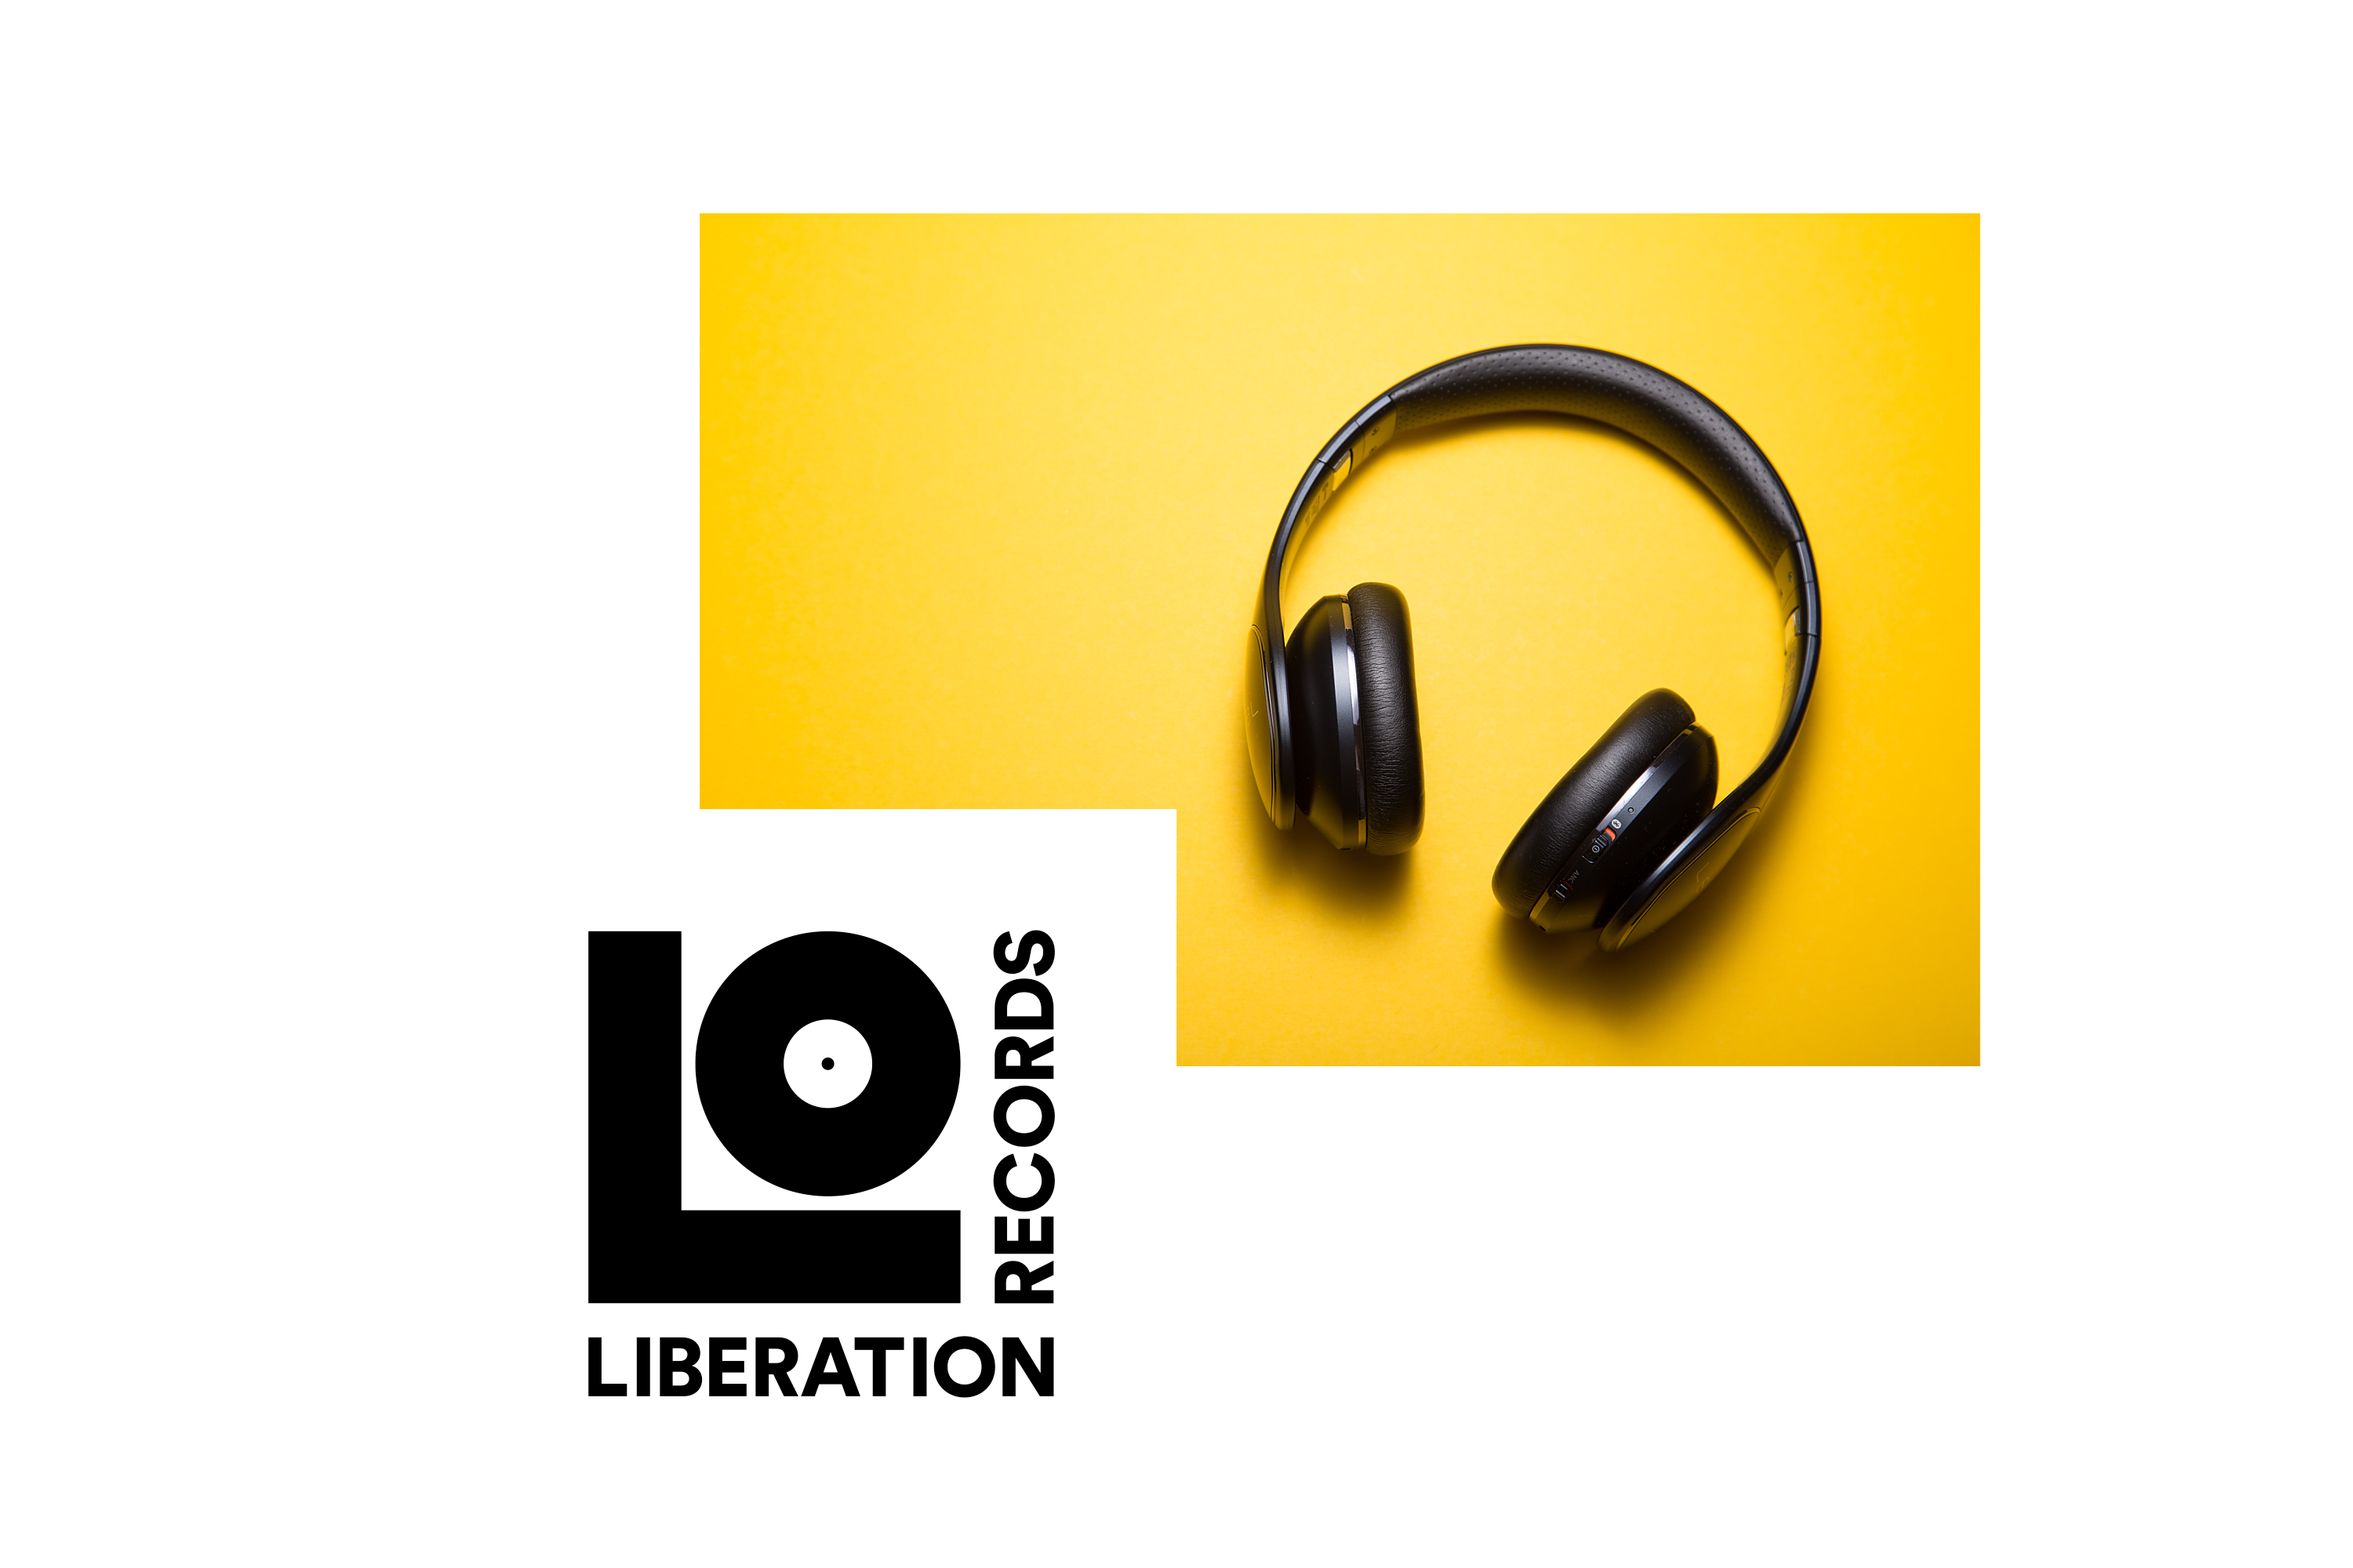
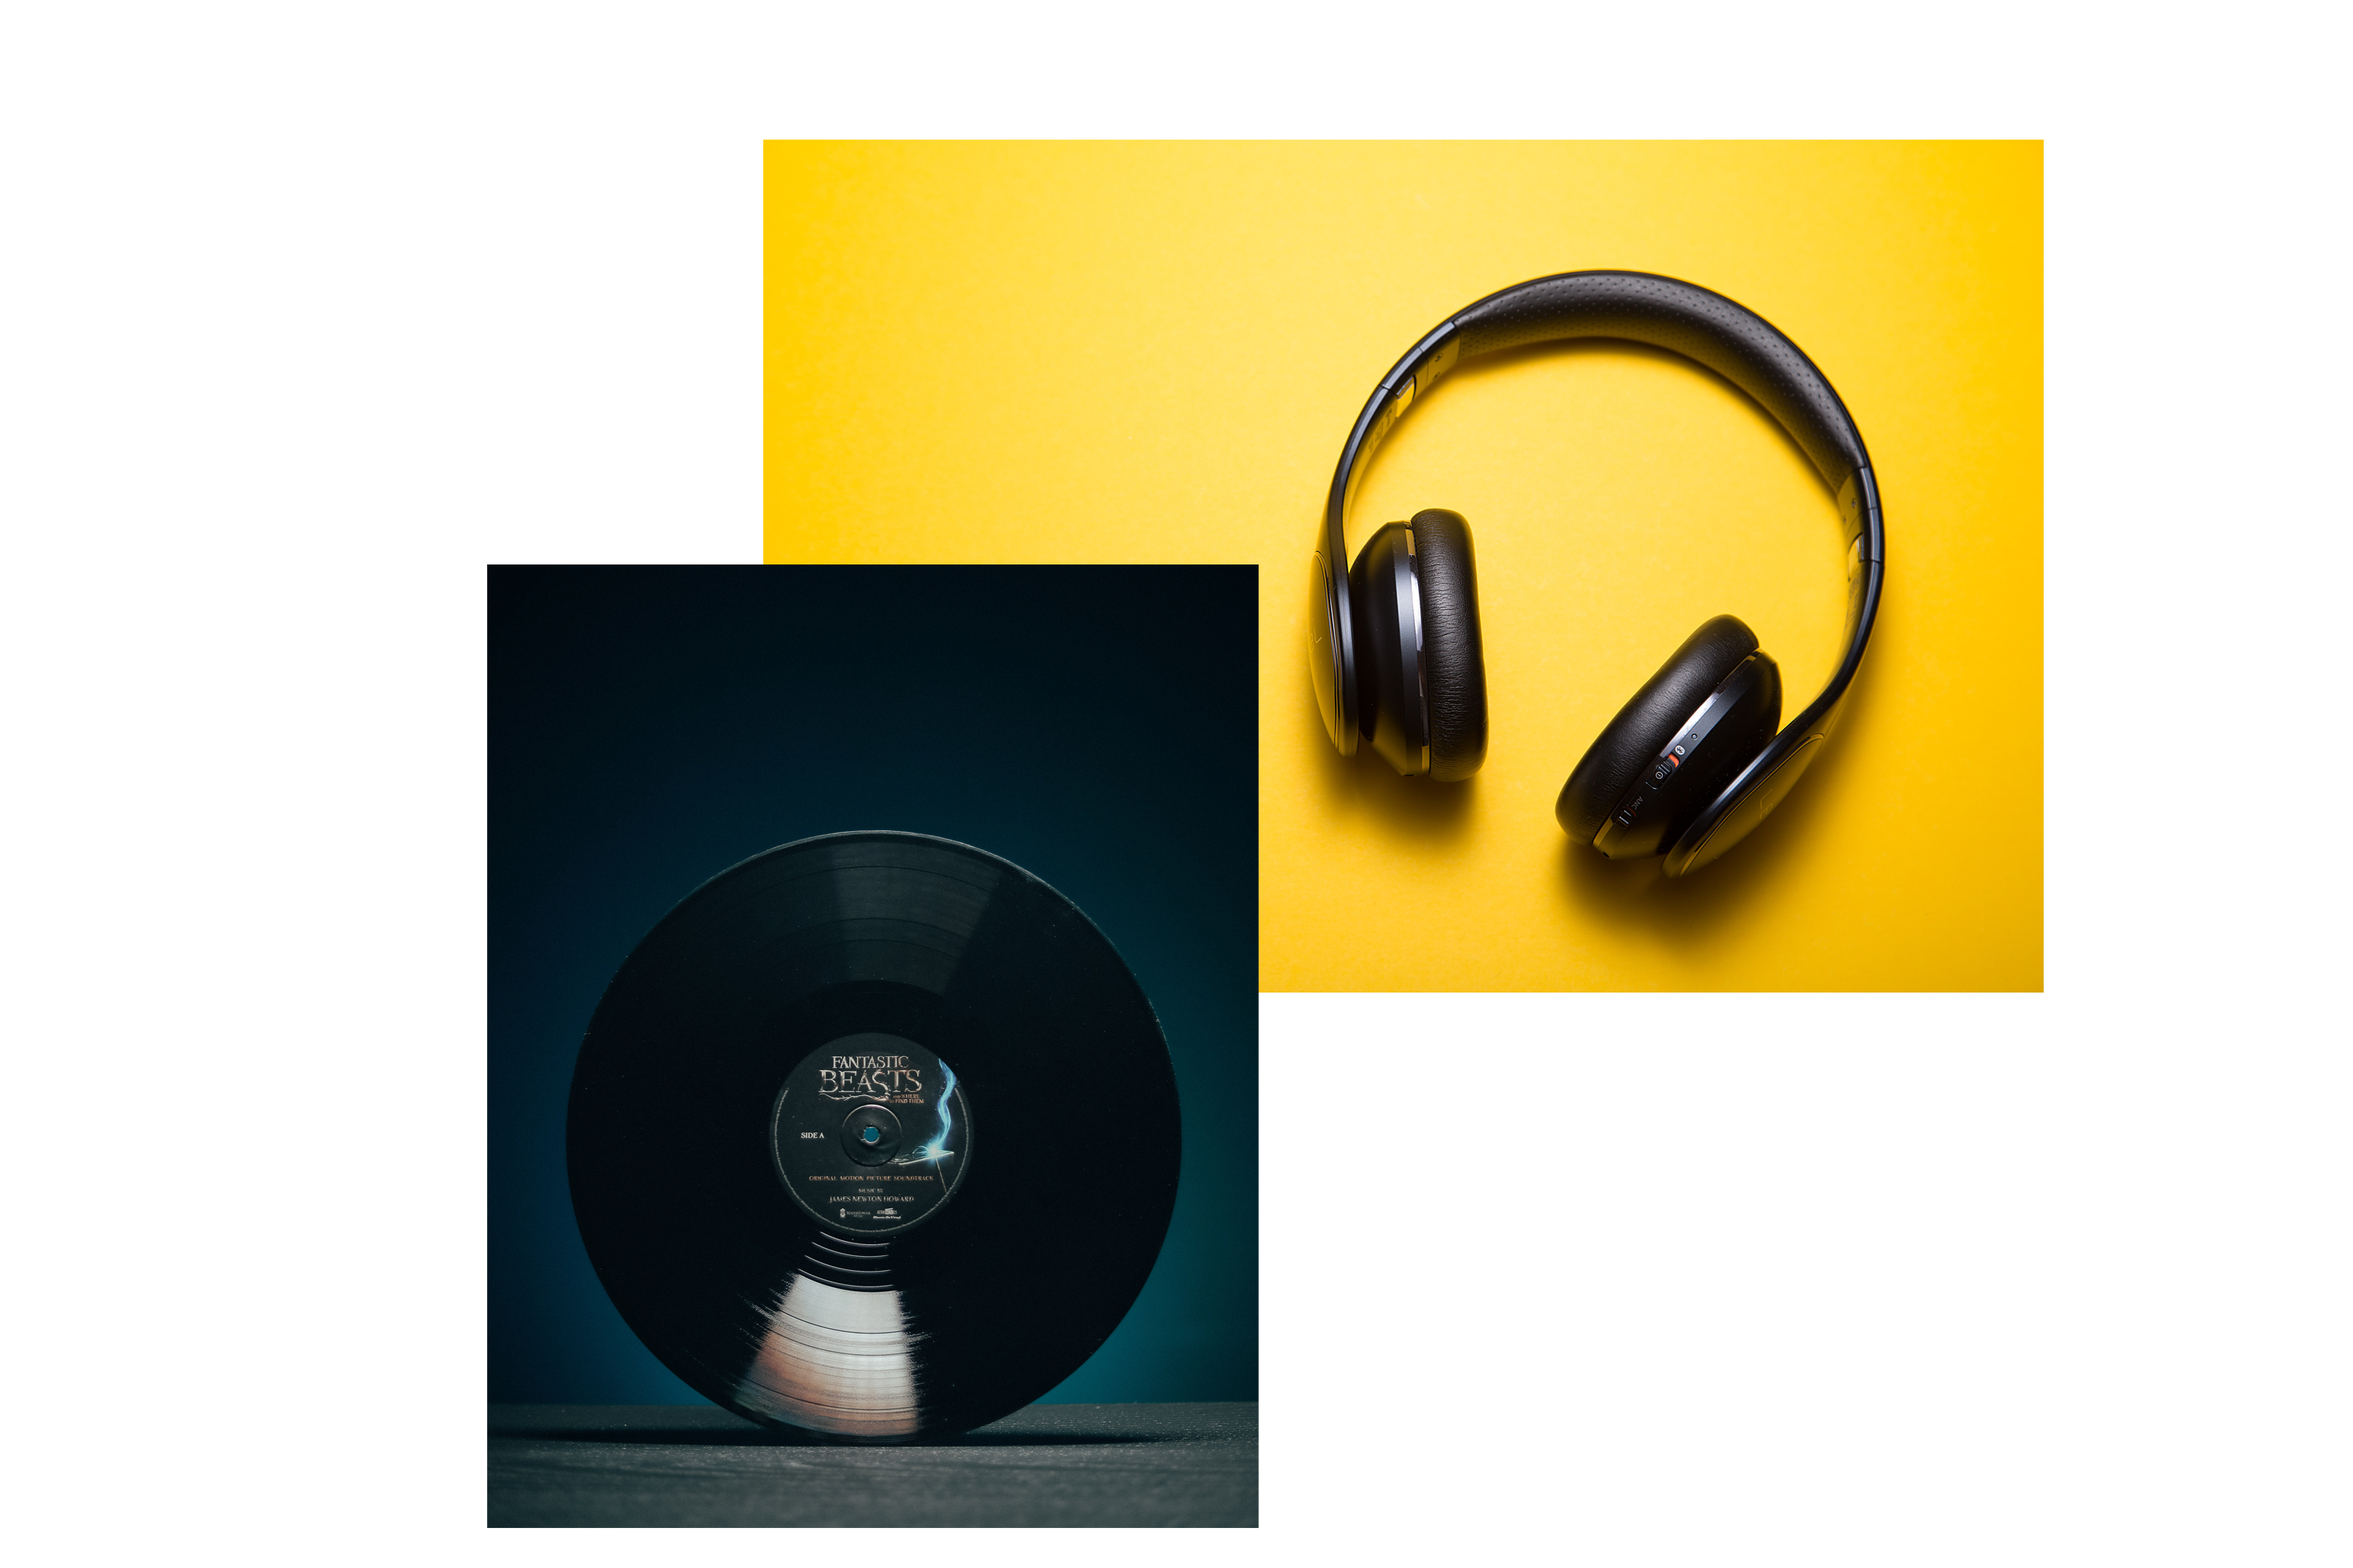
changed collage and added two new images

diff --git a/index.html b/index.html
@@ -119,7 +119,7 @@
                 <div class="col-lg-4 text-center">
                     <!-- <h2 id="founder-mobile">Our Founder</h2> -->
                     <img src="assets/img/IMG-20190324-WA0103.jpg" alt="" class="rounded-circle mx-auto" style="width: 240px; height: 270px;">
-                    <p class="text-center">Vaishnavi M R<br>Founder of WolfWizard</p>
+                    <p class="text-center">Vaishnavi M R<br>Founder of WolfWizard<br><a href="https://www.linkedin.com/in/vaishnavi-m-360840140" target="_blank"><i class="fa fa-linkedin fa-1x"></i></a></p>
                 </div>
             </div>
         </div>
@@ -298,7 +298,7 @@
         <div class="container gallery-container">
             <div class="tz-gallery">
                 <div class="row">
-                    <img src="assets/img/Collage option 1.png" alt="" style="width: 100%; height: 90%;"> 
+                    <img src="assets/img/Collage.png" alt="" style="width: 100%; height: 90%;"> 
                 </div>
             </div>
         </div>

diff --git a/assets/css/style.css b/assets/css/style.css
@@ -227,11 +227,12 @@ h2 {
     }
     #features div.card{
         border-width: 0px !important;
-        border-color: #fff !important;
+        border-color: grey !important;
     }
     #features .card-header{
         background-color: white !important;
-        border-bottom: none !important;
+        padding: 0.25rem 1.25rem;
+        border-bottom: solid 3px #e3e8ec;
     }
     #features .accordion > .card {
         overflow: visible !important;
@@ -324,7 +325,7 @@ h2 {
 /* about us start */
 #about {
     background-repeat: no-repeat;
-    background-size: 1700px 800px;
+    background-size: 1690px 800px;
 }
 
 /* about us end */
@@ -489,7 +490,9 @@ h2 {
     background-color: black !important;
 }
 /* nightmode styling end */
-
+.founder .text-center a{
+    color: white;
+}
 /* desktop view start*/
 @media(min-width: 768px) {
     #home{
